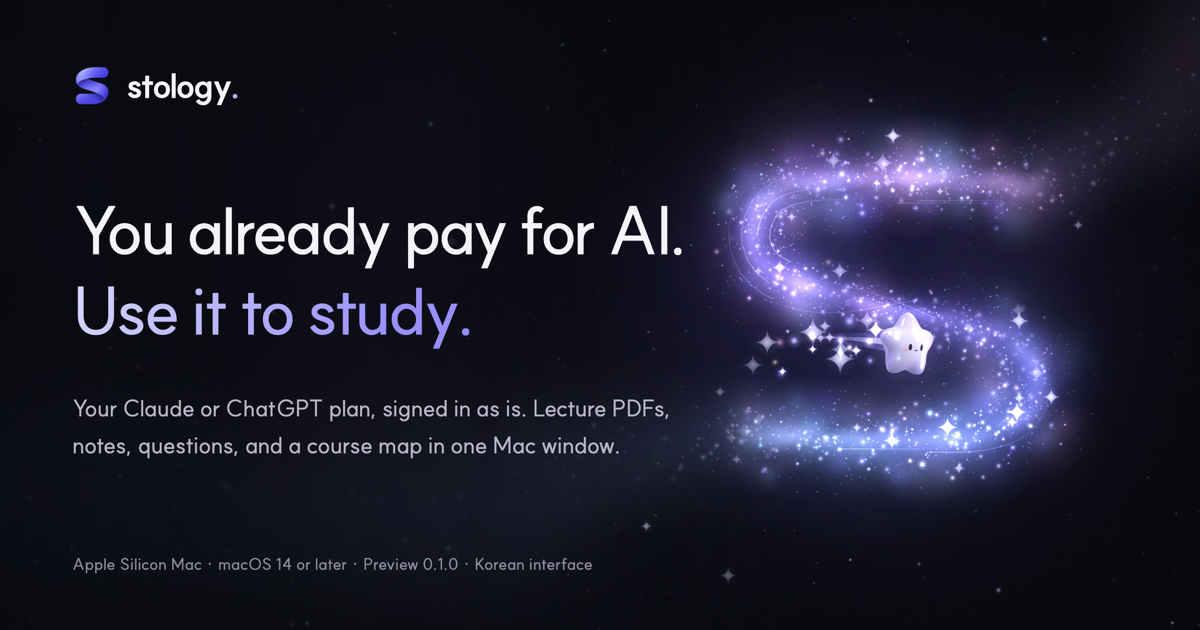
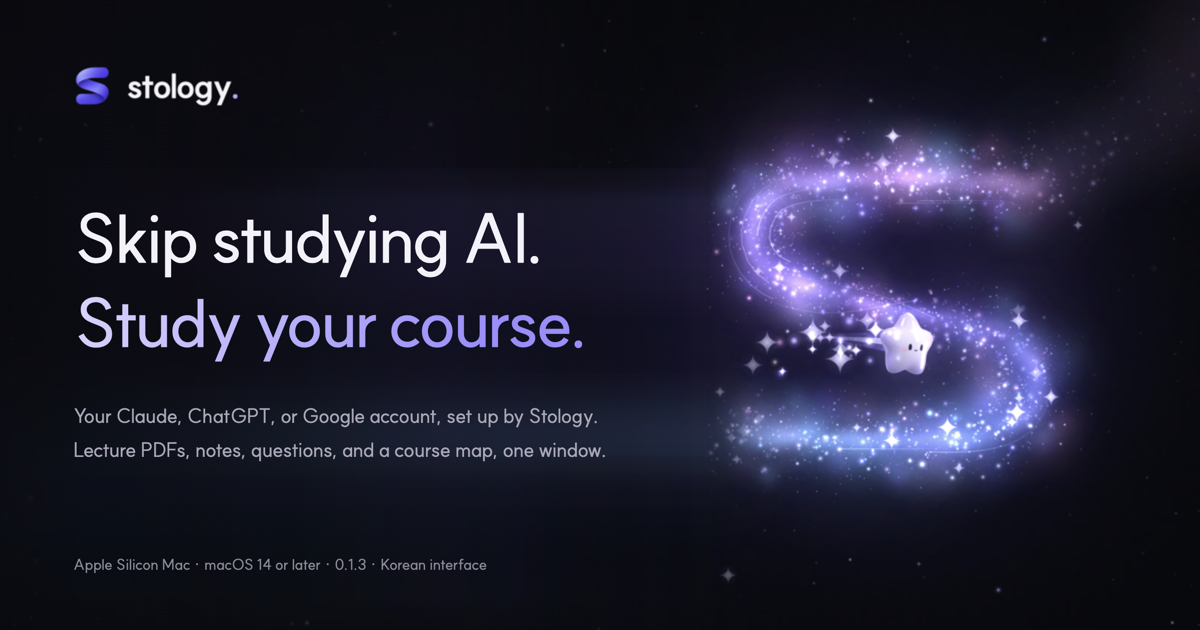
Align landing copy with the ASE pitch deck
- Reframe the hero and closing around "AI 공부보다, 내 공부를 먼저" /
  "Skip studying AI. Study your course." and the ADE → ASE positioning
- Rewrite the problem section around the setup burden (CLI, skills and
  instructions, preparing materials) and the promises around the official
  CLI run by the app, built-in skills, and read-only AI calls
- Add Google (Antigravity) to the account copy, diagrams and suggested
  files to the one-window copy, and named relations to the course map
- Update the transfer FAQ and data notice for note excerpts and
  suggested files, add CLI/skills and ASE FAQ entries, bump 0.1.0 → 0.1.3
- Regenerate og-ko.png/og-en.png with the new headline and keep the
  renderer in landing/scripts/og

diff --git a/landing/src/i18n/ko.js b/landing/src/i18n/ko.js
@@ -5,48 +5,48 @@ export default {
   self: { label: 'KO' },
   nav: { overview: '한 화면', features: '기능', start: '시작하기', faq: 'FAQ', download: 'Mac용 다운로드', menuAria: '주요 메뉴', skip: '본문으로 이동', brandAria: 'Stology 처음으로', langAria: '언어 선택' },
   hero: {
-    eyebrow: 'Claude·ChatGPT를 결제한 대학생을 위한 Mac 학습 공간',
-    title: '결제해 둔 AI,',
-    accent: '이제 공부에 쓰세요.',
-    body: '쓰던 Claude·ChatGPT 계정 그대로 연결해요. 강의 PDF 필기, 노트, 질문, 과목 정리를 Mac 창 하나에서 끝내고 파일은 내 Mac에 남겨요.',
+    eyebrow: '공부를 위한 에이전트 환경 · ASE',
+    title: 'AI 공부보다,',
+    accent: '내 공부를 먼저.',
+    body: '쓰던 Claude·ChatGPT·Google 계정을 연결만 하세요. 설치와 세팅은 Stology가 맡아요. 강의 PDF 필기, 노트, 질문, 과목 정리가 Mac 창 하나에 모이고 파일은 내 Mac에 남아요.',
     cta: 'Mac용 다운로드',
     secondary: '어떻게 쓰는지 보기',
-    req: ['Apple Silicon Mac', 'macOS 14 이상', '0.1.0 미리보기'],
+    req: ['Apple Silicon Mac', 'macOS 14 이상', '0.1.3'],
     labelTop: '강의자료 · 노트 · 질문이',
     labelBottom: '한 흐름으로',
-    coordinate: 'STOLOGY / ONE WINDOW',
+    coordinate: 'STOLOGY / AGENT STUDY ENVIRONMENT',
     canvasAria: 'Stology의 S 모양으로 모여 흐르는 은하수 위에서 라벤더 별 캐릭터 하나가 흐름을 타고, 뛰어오르고, 주변을 날아다니는 애니메이션',
     pause: '메인 애니메이션 일시정지', play: '메인 애니메이션 재생', reduced: '시스템의 동작 줄이기 설정으로 애니메이션이 정지됨',
-    trust: ['공식 로그인만 사용', '파일은 내 Mac에', 'Apple 공증 앱', '0.1.0 미리보기'],
+    trust: ['공식 로그인만 사용', '파일은 내 Mac에', 'Apple 공증 앱', '자동 업데이트'],
     scrollAria: '다음 섹션으로 스크롤',
   },
   problem: {
     index: '02', label: '지금은',
-    title: '지금은 이렇게 쓰고 있지 않나요?',
+    title: 'AI를 공부에 맞추는 것도, 또 하나의 공부였어요.',
     cards: [
-      { tag: '노트 앱', h: '필기는 노트 앱에.', p: '강의자료는 다른 창에, 질문은 또 다른 창에.' },
-      { tag: 'AI 창', h: 'AI에 물으려면 내보내고, 첨부하고.', p: '자료가 늘면 같은 길을 또 오가요.' },
-      { tag: 'PDF 앱', h: 'AI 기능은 앱마다 또 결제.', p: '이미 Claude·ChatGPT를 내고 있는데도요.' },
+      { tag: '터미널', h: 'CLI 설치와 로그인부터.', p: '처음 듣는 말이면 개념부터 따로 공부해야 해요.' },
+      { tag: '스킬·지침', h: '공부 스킬을 찾고 과목 지침을 쓰고.', p: '과목이 늘면 지침도 하나씩 늘어요.' },
+      { tag: '자료 정리', h: '자료를 AI가 읽기 좋게 다듬고.', p: '쓰다 보면 또 고쳐야 해요.' },
     ],
-    resolve: '한 곳이면 됩니다.',
+    resolve: '세팅은 Stology가 할게요.',
   },
   window: {
     index: '01', label: '한 화면',
-    title: '읽다가, 묻고, 적어요. 창을 바꾸지 않고.',
-    body: '강의 PDF에 형광펜을 긋고 오른쪽 학습도우미에서 바로 물어요. 남길 만한 답은 노트 초안으로 정리해 두고요. 이 모든 게 같은 창, 같은 과목 안에서 일어나요.',
+    title: '필기부터 AI 질문까지, 앱 하나로.',
+    body: '강의 PDF에 형광펜을 긋고 오른쪽 학습도우미에서 바로 물어요. 질문과 관련된 과목 자료는 앱이 찾아 답 아래에 붙여 줘요. 남길 만한 답은 노트로 정리하고 노트 안에서 다이어그램도 그려요.',
     frameLabel: 'STOLOGY FOR MAC', frameNote: '실제 화면을 그대로 재현한 장면',
     steps: ['PDF 열기', '형광펜', '질문 ⌘↩', '노트로 정리'],
     aria: '앱 창 전체에서 PDF를 열어 형광펜을 긋고, AI 패널에 질문을 보낸 뒤 답을 노트 초안으로 정리하는 장면',
   },
   promises: {
     index: '03', label: '세 가지 약속',
-    title: '바꾸는 건 창 하나. 지키는 건 세 가지.',
+    title: '세팅은 Stology가. 계정과 파일은 그대로.',
     items: [
-      { h: '쓰던 계정 그대로.', p: 'Claude·ChatGPT 계정을 공식 로그인으로 연결해요. 추가 AI 요금 없이, 내 플랜 한도 안에서 써요.', icon: 'account' },
-      { h: '자료는 한 번만.', p: '과목에 PDF·PPTX·이미지를 넣어 두면 필기, 질문, 정리가 같은 파일을 봐요. 내보내기와 첨부를 반복하지 않아요.', icon: 'files' },
-      { h: '내 Mac에, 파일 그대로.', p: '노트는 Markdown, 필기는 PDF로 남아요. 분석은 내가 고른 자료를 내가 요청할 때만 보내요.', icon: 'shield' },
+      { h: '쓰던 계정 그대로.', p: 'Claude·ChatGPT·Google 계정의 공식 CLI를 앱이 대신 실행해요. 로그인도 공식 절차 그대로예요. 추가 AI 요금 없이 내 플랜 한도 안에서 써요.', icon: 'account' },
+      { h: '스킬과 지침은 Stology가.', p: '공부 스킬이 앱에 들어 있고 과목 지침도 앱이 관리해요. 버튼 한 번이면 과목 개념 지도가 만들어지고, 스킬은 사용자 피드백을 받아 업데이트로 고쳐 나가요.', icon: 'spark' },
+      { h: 'AI는 읽기만, 파일은 내 Mac에.', p: 'AI는 파일 수정·인터넷 도구를 끈 채 불러요. 검색·대조·저장은 앱이 하고, 노트는 Markdown, 필기는 PDF로 남아요.', icon: 'shield' },
     ],
-    note: 'Google 계정(Antigravity)도 연결할 수 있어요.',
+    note: '자료를 열거나 필기하는 것만으로는 아무것도 보내지 않아요.',
     link: '무엇이 언제 전송되는지 →',
   },
   notes: {
@@ -103,9 +103,9 @@ export default {
   },
   map: {
     index: '06', label: '과목 지도',
-    title: '과목 하나가 지도가 돼요.',
-    body: '자료를 골라 정리를 요청하면 개념이 서로 이어져요. 개념을 누르면 강의자료 몇 쪽에서 나왔는지, 그때 내가 뭘 물었는지가 같이 열려요.',
-    note: '정리는 직접 요청할 때만 시작돼요. 고른 자료의 글과 필요한 이미지가 연결한 계정으로 전송돼요.',
+    title: '개념 하나에서 공부가 시작돼요.',
+    body: '자료를 골라 과목 정리를 요청하면 개념이 이름 있는 관계로 이어져요. 개념을 누르면 강의자료 몇 쪽에서 배웠는지, 그때 내가 뭘 물었는지가 같이 열려요.',
+    note: '정리는 직접 요청할 때만 시작돼요. 고른 자료의 글과 필요한 이미지가 연결한 계정으로 전송되고 AI가 뽑은 근거는 앱이 원문과 대조해 맞는 것만 남겨요.',
     aria: '지식지도를 조작하는 장면. 데이터베이스 과목의 개념 지도를 돌려 보고 Cursor based 페이징을 눌러 강의자료 몇 쪽에서 배웠는지 확인한 뒤, 전체 보기로 돌아와 정규형을 검색해 내 질문에서 배운 제1정규형을 열고 연결된 제2정규형으로 넘어간다.',
   },
   start: {
@@ -114,9 +114,9 @@ export default {
     steps: [
       { h: '내려받아 설치.', p: 'DMG를 열고 Stology Local을 응용 프로그램 폴더로 옮기세요. 새 버전은 앱 안에서 알려 드려요.' },
       { h: '과목 만들고 자료 넣기.', p: '과목 이름을 적고 강의 PDF를 자료 패널에 끌어다 놓으세요. 여기까지는 계정 연결이 필요 없어요.' },
-      { h: '계정 연결.', p: '왼쪽 아래 구독 계정 연결에서 Claude 또는 ChatGPT를 고르고 공식 로그인을 하세요. 공식 도구가 없으면 설치 안내가 떠요. 안내대로 설치하면 돼요.' },
+      { h: '계정 연결.', p: '왼쪽 아래 구독 계정 연결에서 Claude, ChatGPT, Google 중 하나를 고르고 공식 로그인을 하세요. 공식 도구가 없으면 앱이 설치를 안내해요. CLI를 몰라도 안내대로 누르면 돼요.' },
     ],
-    note: '공식 도구는 Claude는 Claude Code, ChatGPT는 Codex예요. 설치에는 인터넷이 필요해요.',
+    note: '공식 도구는 Claude는 Claude Code, ChatGPT는 Codex, Google은 Antigravity예요. 설치에는 인터넷이 필요해요.',
     cta: 'Mac용 다운로드',
     discord: '막히면 Discord에서 물어보세요',
   },
@@ -125,18 +125,20 @@ export default {
     title: '시작하기 전에<br>궁금한 것',
     items: [
       { q: 'AI를 연결해야 쓸 수 있나요?', a: '아니요. 노트, PDF 필기, 자료 보관은 계정 없이 전부 써요. 질문과 과목 정리에만 연결이 필요해요.' },
+      { q: 'CLI나 스킬을 몰라도 되나요?', a: '네. 공식 CLI 설치와 로그인은 앱이 안내하고 실행도 앱이 대신해요. 공부 스킬과 과목 지침이 앱에 들어 있어서 따로 찾거나 쓸 필요가 없어요.' },
+      { q: 'ASE가 뭔가요?', a: 'Agent Study Environment의 줄임말이에요. 개발자는 AI 에이전트에게 일을 맡기고 한 화면에서 지켜보는 환경(ADE)을 써요. Stology는 그 방식을 공부에 맞게 옮긴 환경이에요.' },
       { q: '어떤 계정을 연결할 수 있나요?', a: 'Claude, ChatGPT, Google(Antigravity) 계정이에요. 각 회사의 공식 로그인을 쓰고 이용 범위는 내 플랜의 조건을 따라요. 한도에 닿아도 필기와 노트는 계속 써요.' },
-      { q: '내 자료가 자동으로 전달되나요?', a: '아니요. 자료를 열거나 필기해도 아무것도 보내지 않아요. 직접 고른 자료를 분석·정리 요청할 때만 그 자료의 글과 필요한 이미지가 연결한 계정으로 가요. 학습도우미에는 내가 적은 질문과 첨부한 이미지만 보내요.', id: 'transfer' },
+      { q: '내 자료가 자동으로 전달되나요?', a: '아니요. 자료를 열거나 필기해도 아무것도 보내지 않아요. 직접 고른 자료를 분석·정리 요청할 때만 그 자료의 글과 필요한 이미지가 연결한 계정으로 가요. 학습도우미에는 내가 적은 질문, 첨부한 이미지, 직접 붙인 노트 발췌만 보내요. 답 아래 추천 자료는 앱이 내 Mac에서 찾고, 과목 자료 발췌로 비교 답변을 켠 과목에서만 그 발췌가 함께 가요.', id: 'transfer' },
       { q: '어떤 Mac에서 되나요?', a: 'Apple Silicon Mac, macOS 14 이상이에요. Intel Mac, Windows, iPad는 아직 지원하지 않아요.' },
-      { q: '지금 버전은 어떤 단계인가요?', a: '0.1.0 미리보기예요. 새 버전은 앱 메뉴의 업데이트 확인으로 받아요.' },
+      { q: '지금 버전은 어떤 단계인가요?', a: '0.1.3이에요. Apple 공증을 받은 앱이고, 새 버전이 나오면 앱이 알려 줘서 바로 받을 수 있어요.' },
       { q: '노트를 다른 앱에서도 열 수 있나요?', a: '네. 노트는 Markdown 파일로, 필기는 PDF로 내 Mac에 저장돼요. 자료 패널에서 Finder로 바로 열 수 있어요.' },
       { q: '질문이나 제안은 어디에 하나요?', a: 'Discord 서버에서 바로 이야기할 수 있어요. 버그, 바라는 기능, 사용하면서 막힌 지점을 남겨 주세요.', discord: true },
     ],
   },
   closing: {
-    index: 'YOUR AI. YOUR FILES. ONE WINDOW.',
-    title: '다음 수업부터, 창 하나로.',
-    body: '결제해 둔 AI, 이제 공부에 쓰세요.',
+    index: 'AGENT STUDY ENVIRONMENT',
+    title: '개발자에게 ADE가 있다면, 공부하는 사람에게는 ASE가 있어요.',
+    body: 'AI 공부보다, 내 공부를 먼저.',
     cta: 'Mac용 다운로드',
     discord: 'Discord에서 이야기해요',
     video: {
@@ -150,7 +152,7 @@ export default {
   dataDialog: {
     title: '데이터 안내',
     p1: '이 사이트는 쿠키 없는 방문 통계만 사용해요. 입력 폼과 계정이 없어요.',
-    p2: '앱은 자료를 열거나 필기하는 것만으로 아무것도 보내지 않아요. 직접 고른 자료를 분석·정리 요청할 때만 그 자료의 글과 필요한 이미지가 연결한 계정으로 가요. 학습도우미에는 입력한 질문과 첨부 이미지만 보내요.',
+    p2: '앱은 자료를 열거나 필기하는 것만으로 아무것도 보내지 않아요. 직접 고른 자료를 분석·정리 요청할 때만 그 자료의 글과 필요한 이미지가 연결한 계정으로 가요. 학습도우미에는 입력한 질문, 첨부 이미지, 직접 붙인 노트 발췌만 보내요. 추천 자료는 앱이 내 Mac에서 찾아요.',
     close: '안내 닫기',
   },
   discordUrlLabel: 'Stology Discord 서버 열기',

diff --git a/landing/src/i18n/en.js b/landing/src/i18n/en.js
@@ -5,48 +5,48 @@ export default {
   self: { label: 'EN' },
   nav: { overview: 'Overview', features: 'Features', start: 'Get started', faq: 'FAQ', download: 'Download for Mac', menuAria: 'Main menu', skip: 'Skip to content', brandAria: 'Stology home', langAria: 'Language' },
   hero: {
-    eyebrow: 'A Mac study space for students on Claude or ChatGPT',
-    title: 'You already pay for AI.',
-    accent: 'Use it to study.',
-    body: 'Sign in with the Claude or ChatGPT plan you already have. Mark up lecture PDFs, take notes, ask questions, and map each course in one Mac window. Every file stays on your Mac.',
+    eyebrow: 'An agent environment for studying · ASE',
+    title: 'Skip studying AI.',
+    accent: 'Study your course.',
+    body: 'Just connect the Claude, ChatGPT, or Google account you already use. Stology handles the install and setup. Lecture PDF markup, notes, questions, and course maps come together in one Mac window, and every file stays on your Mac.',
     cta: 'Download for Mac',
     secondary: 'See how it works',
-    req: ['Apple Silicon Mac', 'macOS 14 or later', 'Preview 0.1.0', 'Korean interface'],
+    req: ['Apple Silicon Mac', 'macOS 14 or later', '0.1.3', 'Korean interface'],
     labelTop: 'Slides, notes, questions',
     labelBottom: 'one stream',
-    coordinate: 'STOLOGY / ONE WINDOW',
+    coordinate: 'STOLOGY / AGENT STUDY ENVIRONMENT',
     canvasAria: 'Animation of a galaxy flowing into an S shape, with one lavender star character riding the stream, hopping, and flying around it',
     pause: 'Pause the main animation', play: 'Play the main animation', reduced: 'Animation is paused by your system’s reduce-motion setting',
-    trust: ['Official sign-in only', 'Files stay on your Mac', 'Notarized by Apple', 'Preview 0.1.0'],
+    trust: ['Official sign-in only', 'Files stay on your Mac', 'Notarized by Apple', 'Automatic updates'],
     scrollAria: 'Scroll to the next section',
   },
   problem: {
     index: '02', label: 'Today',
-    title: 'Sound familiar?',
+    title: 'Setting AI up for studying was a course of its own.',
     cards: [
-      { tag: 'Notes app', h: 'Notes live in one app.', p: 'Slides in another window. Questions in a third.' },
-      { tag: 'AI window', h: 'To ask AI, you export, then attach.', p: 'More files, same trip again.' },
-      { tag: 'PDF app', h: 'And every app sells its own AI.', p: 'Even though you already pay for Claude or ChatGPT.' },
+      { tag: 'Terminal', h: 'Install a CLI, then sign in.', p: 'If the words are new, you learn the concepts first.' },
+      { tag: 'Skills & instructions', h: 'Find study skills, write course instructions.', p: 'Every new course needs its own.' },
+      { tag: 'Materials', h: 'Reshape your files for the AI.', p: 'And keep fixing it as you go.' },
     ],
-    resolve: 'One place is enough.',
+    resolve: 'Stology does the setup.',
   },
   window: {
     index: '01', label: 'One window',
-    title: 'Read, ask, write. Without switching windows.',
-    body: 'Highlight the lecture PDF, ask in the study helper on the right, and turn the answers worth keeping into a note draft. All in the same window, inside the same course.',
+    title: 'From markup to AI questions, in one app.',
+    body: 'Highlight the lecture PDF and ask the study helper on the right. The app finds related course files and lists them under the answer. Turn answers worth keeping into notes, and draw diagrams right inside them.',
     frameLabel: 'STOLOGY FOR MAC', frameNote: 'Re-created from the real interface',
     steps: ['Open PDF', 'Highlight', 'Ask ⌘↩', 'Make a note draft'],
     aria: 'Scene of the full app window: a PDF is opened and highlighted, a question is sent in the AI panel, and the answer is turned into a note draft',
   },
   promises: {
     index: '03', label: 'Three promises',
-    title: 'One window changes. Three things don’t.',
+    title: 'Stology does the setup. Your account and files stay yours.',
     items: [
-      { h: 'Your plan, your login.', p: 'Connect Claude or ChatGPT through their official sign-in. No extra AI fee. It runs inside the plan you already have.', icon: 'account' },
-      { h: 'Add a file once.', p: 'Drop PDFs, slides, and images into a course. Markup, questions, and summaries all look at the same file. No exporting, no re-attaching.', icon: 'files' },
-      { h: 'Files stay on your Mac.', p: 'Notes are Markdown, markup is saved into the PDF. Nothing is sent until you pick a file and ask.', icon: 'shield' },
+      { h: 'Your plan, your login.', p: 'The app runs the official CLI for your Claude, ChatGPT, or Google account, and sign-in follows the official flow. No extra AI fee. It runs inside the plan you already have.', icon: 'account' },
+      { h: 'Skills and instructions, handled.', p: 'Study skills come built in, and the app manages course instructions. One button builds a course concept map, and the skills improve through updates shaped by user feedback.', icon: 'spark' },
+      { h: 'AI only reads. Files stay on your Mac.', p: 'The AI is called with file editing and internet tools turned off. Search, checking, and saving are done by the app. Notes are Markdown, markup lives in the PDF.', icon: 'shield' },
     ],
-    note: 'A Google account (Antigravity) can be connected too.',
+    note: 'Opening or marking up a file sends nothing.',
     link: 'What gets sent, and when →',
   },
   notes: {
@@ -103,9 +103,9 @@ export default {
   },
   map: {
     index: '06', label: 'Course map',
-    title: 'Each course becomes a map.',
-    body: 'Pick files to organize and the concepts link up. Click one and you get the lecture page it came from, and the question you asked back then.',
-    note: 'Organizing starts only when you ask. The text and needed images from the files you picked are sent through your connected account.',
+    title: 'Start from a single concept.',
+    body: 'Pick files to organize and the concepts link up through named relations. Click one and you get the lecture page where you learned it, and the question you asked back then.',
+    note: 'Organizing starts only when you ask. The text and needed images from the files you picked are sent through your connected account, and the app checks the AI’s evidence against the source, keeping only what matches.',
     aria: 'A course map in use. The database course’s concept map is rotated, Cursor-based paging opens to show the lecture page it came from, the overview comes back, a search for normal forms opens First normal form with the question it was learned from, and a link moves on to Second normal form.',
   },
   start: {
@@ -114,9 +114,9 @@ export default {
     steps: [
       { h: 'Download and install.', p: 'Open the DMG and drag Stology Local to Applications. Updates arrive inside the app.' },
       { h: 'Create a course, add files.', p: 'Name the course and drop lecture PDFs into the materials panel. No account needed up to here.' },
-      { h: 'Connect your account.', p: 'Pick Claude or ChatGPT under 구독 계정 연결 at the bottom left and sign in. If the official tool isn’t installed yet, the app shows you how.' },
+      { h: 'Connect your account.', p: 'Pick Claude, ChatGPT, or Google under 구독 계정 연결 at the bottom left and sign in. If the official tool isn’t installed yet, the app walks you through it. No CLI know-how needed.' },
     ],
-    note: 'The official tools are Claude Code for Claude and Codex for ChatGPT. Installing them needs an internet connection. The interface is in Korean today.',
+    note: 'The official tools are Claude Code for Claude, Codex for ChatGPT, and Antigravity for Google. Installing them needs an internet connection. The interface is in Korean today.',
     cta: 'Download for Mac',
     discord: 'Stuck? Ask on Discord',
   },
@@ -125,19 +125,21 @@ export default {
     title: 'Before you<br>start',
     items: [
       { q: 'Do I need to connect an AI account?', a: 'No. Notes, PDF markup, and file storage work without one. You only need a connected account for questions and course maps.' },
+      { q: 'Do I need to know CLIs or skills?', a: 'No. The app guides the official CLI install and sign-in, then runs it for you. Study skills and course instructions are built in, so there’s nothing to find or write.' },
+      { q: 'What is ASE?', a: 'Short for Agent Study Environment. Developers use an ADE to hand work to AI agents and watch it all in one window. Stology brings that idea to studying.' },
       { q: 'Which accounts work?', a: 'Claude, ChatGPT, and Google (Antigravity). Each uses the company’s own sign-in, and limits follow your plan. If you hit a limit, notes and markup keep working.' },
-      { q: 'Is anything sent automatically?', a: 'No. Opening or marking up a file sends nothing. Only when you pick a file and ask for analysis does its text (and any needed images) go through your connected account. The study helper sends just your typed question and attached images.', id: 'transfer' },
+      { q: 'Is anything sent automatically?', a: 'No. Opening or marking up a file sends nothing. Only when you pick a file and ask for analysis does its text (and any needed images) go through your connected account. The study helper sends just your typed question, attached images, and note excerpts you attach yourself. Suggested files under an answer are found on your Mac, and excerpts are sent only in courses where you turn on comparison answers from course excerpts.', id: 'transfer' },
       { q: 'Which Macs are supported?', a: 'Apple Silicon Macs on macOS 14 or later. Intel Macs, Windows, and iPad aren’t supported yet.' },
       { q: 'Is the interface in English?', a: 'Not yet. The app is in Korean today. This page is in English so you can see what it does; an English interface is on the roadmap.' },
-      { q: 'What stage is it in?', a: 'Preview 0.1.0. New versions arrive through Check for Updates in the app menu.' },
+      { q: 'What stage is it in?', a: 'Version 0.1.3, notarized by Apple. When a new version is out, the app tells you and you can install it right away.' },
       { q: 'Can I open my notes elsewhere?', a: 'Yes. Notes are Markdown files and markup lives in the PDF, both on your Mac. You can reveal them in Finder from the materials panel.' },
       { q: 'Where do I ask questions or suggest things?', a: 'On the Discord server. Bugs, feature wishes, and the places you got stuck are all welcome.', discord: true },
     ],
   },
   closing: {
-    index: 'YOUR AI. YOUR FILES. ONE WINDOW.',
-    title: 'From your next class, one window.',
-    body: 'You already pay for AI. Use it to study.',
+    index: 'AGENT STUDY ENVIRONMENT',
+    title: 'Developers have their ADE. Students now have an ASE.',
+    body: 'Skip studying AI. Study your course.',
     cta: 'Download for Mac',
     discord: 'Talk to us on Discord',
     video: {
@@ -151,7 +153,7 @@ export default {
   dataDialog: {
     title: 'Data notice',
     p1: 'This site uses cookie-free visit statistics only. No forms, no accounts.',
-    p2: 'The app sends nothing just because you open or mark up a file. Only when you pick a file and ask for analysis does its text and any needed images go through your connected account; the study helper sends just your typed question and attached images.',
+    p2: 'The app sends nothing just because you open or mark up a file. Only when you pick a file and ask for analysis does its text and any needed images go through your connected account; the study helper sends just your typed question, attached images, and note excerpts you attach yourself. Suggested files are found on your Mac.',
     close: 'Close',
   },
   discordUrlLabel: 'Open the Stology Discord server',

diff --git a/landing/scripts/og/render.html b/landing/scripts/og/render.html
@@ -1,0 +1,53 @@
+<!doctype html>
+<!-- 공유 미리보기(og-ko.png·og-en.png) 렌더러. landing/scripts/og 를 정적 서버로 열고 ?lang=ko|en 으로 1200×630 뷰포트에서 캡처한다.
+     src-*.png 는 2026-11-27 이전 미리보기 원본이다. 왼쪽 글자 영역은 테두리 색으로 메우고(Coons 보간) 그 위에 새 문구를 얹는다. -->
+<html><head><meta charset="utf-8">
+<style>
+@font-face{font-family:SUIT;src:url(../../public/fonts/SUIT-Variable.woff2) format('woff2');font-weight:100 900}
+html,body{margin:0;background:#08090d}
+.og{position:relative;width:1200px;height:630px;overflow:hidden;font-family:SUIT,sans-serif;color:#f4f2fa}
+canvas{position:absolute;inset:0}
+.copy{position:absolute;left:73px;top:196px}
+h1{margin:0;font-weight:500;font-size:68px;line-height:1.24;letter-spacing:-2.6px;white-space:nowrap}
+h1 span{background:linear-gradient(110deg,#d9d5ff,#9c8dff 80%);-webkit-background-clip:text;background-clip:text;color:transparent}
+p{margin:34px 0 0;white-space:nowrap;font-size:20px;line-height:1.7;color:#aaa8b9;word-break:keep-all;letter-spacing:-.2px}
+.req{position:absolute;left:73px;top:555px;font-size:15px;color:#8d8a9a}
+</style></head><body>
+<div class="og"><canvas width="1200" height="630"></canvas><div class="copy"><h1></h1><p></p></div><div class="req"></div></div>
+<script>
+const COPY = {
+  ko: { t: 'AI 공부보다,', a: '내 공부를 먼저.', p: ['쓰던 Claude·ChatGPT·Google 계정 그대로, 세팅은 Stology가.', '강의 PDF 필기, 노트, 질문, 과목 지도를 Mac 창 하나에서.'], r: 'Apple Silicon Mac · macOS 14 이상 · 0.1.3' },
+  en: { t: 'Skip studying AI.', a: 'Study your course.', p: ['Your Claude, ChatGPT, or Google account, set up by Stology.', 'Lecture PDFs, notes, questions, and a course map, one window.'], r: 'Apple Silicon Mac · macOS 14 or later · 0.1.3 · Korean interface' },
+};
+const lang = new URLSearchParams(location.search).get('lang') === 'en' ? 'en' : 'ko';
+const c = COPY[lang];
+document.querySelector('h1').innerHTML = `${c.t}<br><span>${c.a}</span>`;
+document.querySelector('.copy p').innerHTML = c.p.map(l => l.replace(/[&<>]/g, m => ({ '&': '&amp;', '<': '&lt;', '>': '&gt;' }[m]))).join('<br>');
+document.querySelector('.req').textContent = c.r;
+const img = new Image();
+img.onload = () => {
+  const cv = document.querySelector('canvas'), g = cv.getContext('2d');
+  g.drawImage(img, 0, 0, 1200, 630);
+  // 지울 영역: 옛 제목·본문·요구사항 줄. 로고(위)와 S 은하수(오른쪽)는 건드리지 않는다.
+  const X0 = 50, X1 = 706, Y0 = 168, Y1 = 598;
+  const d = g.getImageData(0, 0, 1200, 630), px = d.data;
+  const at = (x, y) => { const i = (y * 1200 + x) * 4; return [px[i], px[i + 1], px[i + 2]]; };
+  // 테두리 바로 바깥을 따라 중앙값으로 별·반짝이를 걷어낸 색 줄
+  const med = arr => { const s = [...arr].sort((a, b) => a - b); return s[s.length >> 1]; };
+  const line = (n, f) => { const raw = Array.from({ length: n }, (_, k) => f(k)); return raw.map((_, k) => { const w = raw.slice(Math.max(0, k - 12), k + 13); return [0, 1, 2].map(ch => med(w.map(v => v[ch]))); }); };
+  const W = X1 - X0, H = Y1 - Y0;
+  const T = line(W + 1, k => at(X0 + k, Y0 - 2)), B = line(W + 1, k => at(X0 + k, Y1 + 2));
+  const L = line(H + 1, k => at(X0 - 2, Y0 + k)), R = line(H + 1, k => at(X1 + 2, Y0 + k));
+  for (let y = 0; y <= H; y++) for (let x = 0; x <= W; x++) {
+    const u = x / W, v = y / H, i = ((Y0 + y) * 1200 + X0 + x) * 4;
+    for (let ch = 0; ch < 3; ch++) {
+      const val = (1 - v) * T[x][ch] + v * B[x][ch] + (1 - u) * L[y][ch] + u * R[y][ch]
+        - ((1 - u) * (1 - v) * T[0][ch] + u * (1 - v) * T[W][ch] + (1 - u) * v * B[0][ch] + u * v * B[W][ch]);
+      px[i + ch] = Math.max(0, Math.min(255, val + (Math.random() - .5) * 1.5));
+    }
+  }
+  g.putImageData(d, 0, 0);
+  document.fonts.ready.then(() => { document.body.dataset.ready = '1'; });
+};
+img.src = `src-${lang}.png`;
+</script></body></html>

diff --git a/landing/index.html b/landing/index.html
@@ -4,21 +4,21 @@
     <meta charset="UTF-8" />
     <meta name="viewport" content="width=device-width, initial-scale=1" />
     <meta name="theme-color" content="#08090d" />
-    <title>Stology — 결제해 둔 AI, 이제 공부에 쓰세요 | Claude·ChatGPT로 공부하는 Mac 학습 공간</title>
-    <meta name="description" content="쓰던 Claude·ChatGPT 계정 그대로 연결해 강의 PDF 필기, 노트, 질문, 과목 정리를 Mac 창 하나에서. 파일은 내 Mac에 남습니다. Apple Silicon Mac용 미리보기." />
+    <title>Stology — AI 공부보다, 내 공부를 먼저 | 공부를 위한 에이전트 환경(ASE)</title>
+    <meta name="description" content="쓰던 Claude·ChatGPT·Google 계정을 연결만 하면 설치와 세팅은 Stology가 합니다. 강의 PDF 필기, 노트, 질문, 과목 개념 지도를 Mac 창 하나에서. 파일은 내 Mac에 남습니다. Apple Silicon Mac용." />
     <meta property="og:type" content="website" />
     <meta property="og:site_name" content="Stology" />
     <meta property="og:locale" content="ko_KR" />
     <meta property="og:locale:alternate" content="en_US" />
-    <meta property="og:title" content="Stology — 결제해 둔 AI, 이제 공부에 쓰세요." />
-    <meta property="og:description" content="쓰던 Claude·ChatGPT 계정 그대로. 강의 PDF 필기, 노트, 질문, 과목 정리를 Mac 창 하나에서. 파일은 내 Mac에." />
-    <meta property="og:image:alt" content="S자 은하수 위의 Stology 헤드라인: 결제해 둔 AI, 이제 공부에 쓰세요." />
+    <meta property="og:title" content="Stology — AI 공부보다, 내 공부를 먼저." />
+    <meta property="og:description" content="공부를 위한 에이전트 환경. 쓰던 AI 계정 그대로, 세팅은 Stology가. 강의 PDF 필기, 노트, 질문, 과목 개념 지도를 Mac 창 하나에서." />
+    <meta property="og:image:alt" content="S자 은하수 위의 Stology 헤드라인: AI 공부보다, 내 공부를 먼저." />
     <meta name="twitter:card" content="summary_large_image" />
-    <meta name="twitter:title" content="Stology — 결제해 둔 AI, 이제 공부에 쓰세요." />
-    <meta name="twitter:description" content="쓰던 Claude·ChatGPT 계정 그대로. 강의 PDF 필기, 노트, 질문, 과목 정리를 Mac 창 하나에서." />
+    <meta name="twitter:title" content="Stology — AI 공부보다, 내 공부를 먼저." />
+    <meta name="twitter:description" content="공부를 위한 에이전트 환경. 쓰던 AI 계정 그대로, 세팅은 Stology가. 필기·노트·질문·과목 지도를 Mac 창 하나에서." />
     <link rel="icon" type="image/png" href="/mark.png" />
     <link rel="preload" href="/fonts/SUIT-Variable.woff2" as="font" type="font/woff2" crossorigin />
-    <script type="application/ld+json">{"@context":"https://schema.org","@type":"SoftwareApplication","name":"Stology","applicationCategory":"EducationalApplication","operatingSystem":"macOS 14 이상 (Apple Silicon)","softwareVersion":"0.1.0","inLanguage":"ko","description":"쓰던 Claude·ChatGPT 계정 그대로 연결해 강의 PDF 필기, 노트, 질문, 과목 정리를 Mac 창 하나에서 하는 학습 공간.","downloadUrl":"https://github.com/kjhh2605/Stology-App/releases"}</script>
+    <script type="application/ld+json">{"@context":"https://schema.org","@type":"SoftwareApplication","name":"Stology","applicationCategory":"EducationalApplication","operatingSystem":"macOS 14 이상 (Apple Silicon)","softwareVersion":"0.1.3","inLanguage":"ko","description":"공부를 위한 에이전트 환경(ASE). 쓰던 Claude·ChatGPT·Google 계정을 연결하면 세팅은 앱이 맡고, 강의 PDF 필기, 노트, 질문, 과목 개념 지도를 Mac 창 하나에서 합니다.","downloadUrl":"https://github.com/kjhh2605/Stology-App/releases"}</script>
   </head>
   <body><div id="app"></div><script type="module" src="/src/main.js"></script></body>
 </html>

diff --git a/landing/en/index.html b/landing/en/index.html
@@ -4,21 +4,21 @@
     <meta charset="UTF-8" />
     <meta name="viewport" content="width=device-width, initial-scale=1" />
     <meta name="theme-color" content="#08090d" />
-    <title>Stology — You already pay for AI. Use it to study. | Mac study space for Claude & ChatGPT</title>
-    <meta name="description" content="Sign in with the Claude or ChatGPT plan you already have. Mark up lecture PDFs, take notes, ask questions, and map each course in one Mac window. Files stay on your Mac. Preview for Apple Silicon Macs." />
+    <title>Stology — Skip studying AI. Study your course. | An Agent Study Environment for Mac</title>
+    <meta name="description" content="Connect the Claude, ChatGPT, or Google account you already use and Stology handles the setup. Mark up lecture PDFs, take notes, ask questions, and map each course in one Mac window. Files stay on your Mac. For Apple Silicon Macs." />
     <meta property="og:type" content="website" />
     <meta property="og:site_name" content="Stology" />
     <meta property="og:locale" content="en_US" />
     <meta property="og:locale:alternate" content="ko_KR" />
-    <meta property="og:title" content="Stology — You already pay for AI. Use it to study." />
-    <meta property="og:description" content="Your Claude or ChatGPT plan, signed in as is. Lecture PDFs, notes, questions, and a course map in one Mac window. Files stay on your Mac." />
-    <meta property="og:image:alt" content="Stology headline over an S-shaped galaxy: You already pay for AI. Use it to study." />
+    <meta property="og:title" content="Stology — Skip studying AI. Study your course." />
+    <meta property="og:description" content="An agent environment for studying. Your AI account as is, setup handled by Stology. Lecture PDFs, notes, questions, and a course map in one Mac window." />
+    <meta property="og:image:alt" content="Stology headline over an S-shaped galaxy: Skip studying AI. Study your course." />
     <meta name="twitter:card" content="summary_large_image" />
-    <meta name="twitter:title" content="Stology — You already pay for AI. Use it to study." />
-    <meta name="twitter:description" content="Your Claude or ChatGPT plan, signed in as is. Lecture PDFs, notes, questions, and a course map in one Mac window." />
+    <meta name="twitter:title" content="Stology — Skip studying AI. Study your course." />
+    <meta name="twitter:description" content="An agent environment for studying. Your AI account as is, setup handled by Stology. Notes, PDFs, questions, and a course map in one Mac window." />
     <link rel="icon" type="image/png" href="/mark.png" />
     <link rel="preload" href="/fonts/SUIT-Variable.woff2" as="font" type="font/woff2" crossorigin />
-    <script type="application/ld+json">{"@context":"https://schema.org","@type":"SoftwareApplication","name":"Stology","applicationCategory":"EducationalApplication","operatingSystem":"macOS 14 or later (Apple Silicon)","softwareVersion":"0.1.0","inLanguage":"ko","description":"A Mac study space that signs in with the Claude or ChatGPT plan you already have: lecture PDF markup, notes, questions, and a course map in one window.","downloadUrl":"https://github.com/kjhh2605/Stology-App/releases"}</script>
+    <script type="application/ld+json">{"@context":"https://schema.org","@type":"SoftwareApplication","name":"Stology","applicationCategory":"EducationalApplication","operatingSystem":"macOS 14 or later (Apple Silicon)","softwareVersion":"0.1.3","inLanguage":"ko","description":"An Agent Study Environment for Mac: connect the Claude, ChatGPT, or Google account you already use, let the app handle setup, and keep lecture PDF markup, notes, questions, and a course map in one window.","downloadUrl":"https://github.com/kjhh2605/Stology-App/releases"}</script>
   </head>
   <body><div id="app"></div><script type="module" src="/src/main.js"></script></body>
 </html>

diff --git a/landing/README.md b/landing/README.md
@@ -1,6 +1,6 @@
 # Stology 소개 사이트 (한국어 · 영어)
 
-Claude·ChatGPT를 이미 결제한 Mac 대학생에게 Stology를 소개하는 독립 정적 사이트다. 한국어 `/`와 영어 `/en/` 두 페이지를 만들고, 기능 소개는 실제 앱 UI를 재현한 브라우저 장면으로 보여 준다. 제품 범위는 [제품 정책](../app/docs/product-policy.md), 노트 기능은 [앱 단축키 문서](../app/docs/keyboard-shortcuts.md)를 기준으로 한다. 타깃·카피·구조·채널 계획과 그 근거는 재구축·마케팅 계획과 벤치마크·채널·도구 조사에 있다.
+AI 공부보다 내 공부를 먼저 하고 싶은 사람에게 Stology를 공부를 위한 에이전트 환경(ASE)으로 소개하는 독립 정적 사이트다. 2026-11-27부터 문구는 발표 자료(stology-deck-draft)의 메시지(세팅은 앱이, 계정·파일은 그대로, AI는 읽기만, 개념 중심 지도, 개발자의 ADE에 대응하는 ASE)에 맞췄다. 통계·수요 근거는 발표용이라 사이트에 싣지 않는다. 한국어 `/`와 영어 `/en/` 두 페이지를 만들고, 기능 소개는 실제 앱 UI를 재현한 브라우저 장면으로 보여 준다. 제품 범위는 [제품 정책](../app/docs/product-policy.md), 노트 기능은 [앱 단축키 문서](../app/docs/keyboard-shortcuts.md)를 기준으로 한다. 타깃·카피·구조·채널 계획과 그 근거는 재구축·마케팅 계획과 벤치마크·채널·도구 조사에 있다.
 
 ## 로컬 실행
 
@@ -52,13 +52,14 @@ VITE_SITE_URL=https://example.com VITE_UMAMI_ID=xxxx npm run build --prefix land
 | [src/analytics.js](src/analytics.js) · [src/config.js](src/config.js) | 분석 래퍼와 배포 상수 |
 | [public/media/](public/media/) · [public/fonts/](public/fonts/) | 실제 앱 이미지, 별 스프라이트, 공식 SUIT 가변 woff2와 [OFL](public/fonts/OFL.txt) |
 | [scripts/check-catalog.mjs](scripts/check-catalog.mjs) | 정적 검사 |
+| [scripts/og/render.html](scripts/og/render.html) | 공유 미리보기 `public/og-ko.png`·`og-en.png` 렌더러. `landing/`을 정적 서버로 열고 `?lang=ko\|en`을 1200×630 뷰포트에서 캡처한 뒤 1200×630으로 줄인다. `src-*.png`는 옛 미리보기 원본으로, 글자 영역을 배경으로 메운 뒤 새 문구를 얹는다 |
 | [qa/](qa/) | 브라우저 검증 스크립트와 화면 |
 
 한국어 문구는 `humanize-korean` 윤문을 한 번 거쳤다(2026-11-24, 변경률 0.1%). 런타임 UI 프레임워크 없이 Vite로 묶은 HTML·CSS·JavaScript다. 히어로와 06 과목 지도의 지도 부분은 Canvas 2D, 나머지 기능 시연은 DOM/CSS다. 외부 라이브러리·WebGL은 쓰지 않는다. 영상 파일은 마무리 섹션의 소개 영상 하나뿐이다(ADR-041).
 
 ### 페이지 순서
 
-히어로(은하수 고정, 신뢰 사실 네 개) → 01 한 화면(앱 창 전체 20초 루프: PDF 열기 → 형광펜 → AI 질문 ⌘↩ → 노트로 정리) → 02 지금은(중립 창 세 개가 하나로 합쳐지는 문제 제기) → 03 세 가지 약속 → 04 노트(핵심 6 · 모두 16) → 05 PDF 필기(핵심 5 · 모두 13) → 06 과목 지도(지식지도 조작 장면, 약 23초 반복) → 07 시작하기 세 단계 → 08 FAQ → 마무리(35초 소개 영상 · 문구 · 다운로드) → 푸터(릴리스 노트·Discord·데이터 안내). 가격·요금제는 적지 않는다(사용자 결정).
+히어로(은하수 고정, 신뢰 사실 네 개) → 01 한 화면(앱 창 전체 20초 루프: PDF 열기 → 형광펜 → AI 질문 ⌘↩ → 노트로 정리) → 02 지금은(직접 세팅하는 부담을 적은 중립 창 세 개가 하나로 합쳐지는 문제 제기) → 03 세 가지 약속(쓰던 계정 그대로 · 스킬과 지침은 Stology가 · AI는 읽기만, 파일은 내 Mac에) → 04 노트(핵심 6 · 모두 16) → 05 PDF 필기(핵심 5 · 모두 13) → 06 과목 지도(지식지도 조작 장면, 약 23초 반복) → 07 시작하기 세 단계 → 08 FAQ → 마무리(35초 소개 영상 · 문구 · 다운로드) → 푸터(릴리스 노트·Discord·데이터 안내). 가격·요금제는 적지 않는다(사용자 결정).
 
 ### 기능 시연 장면
 
